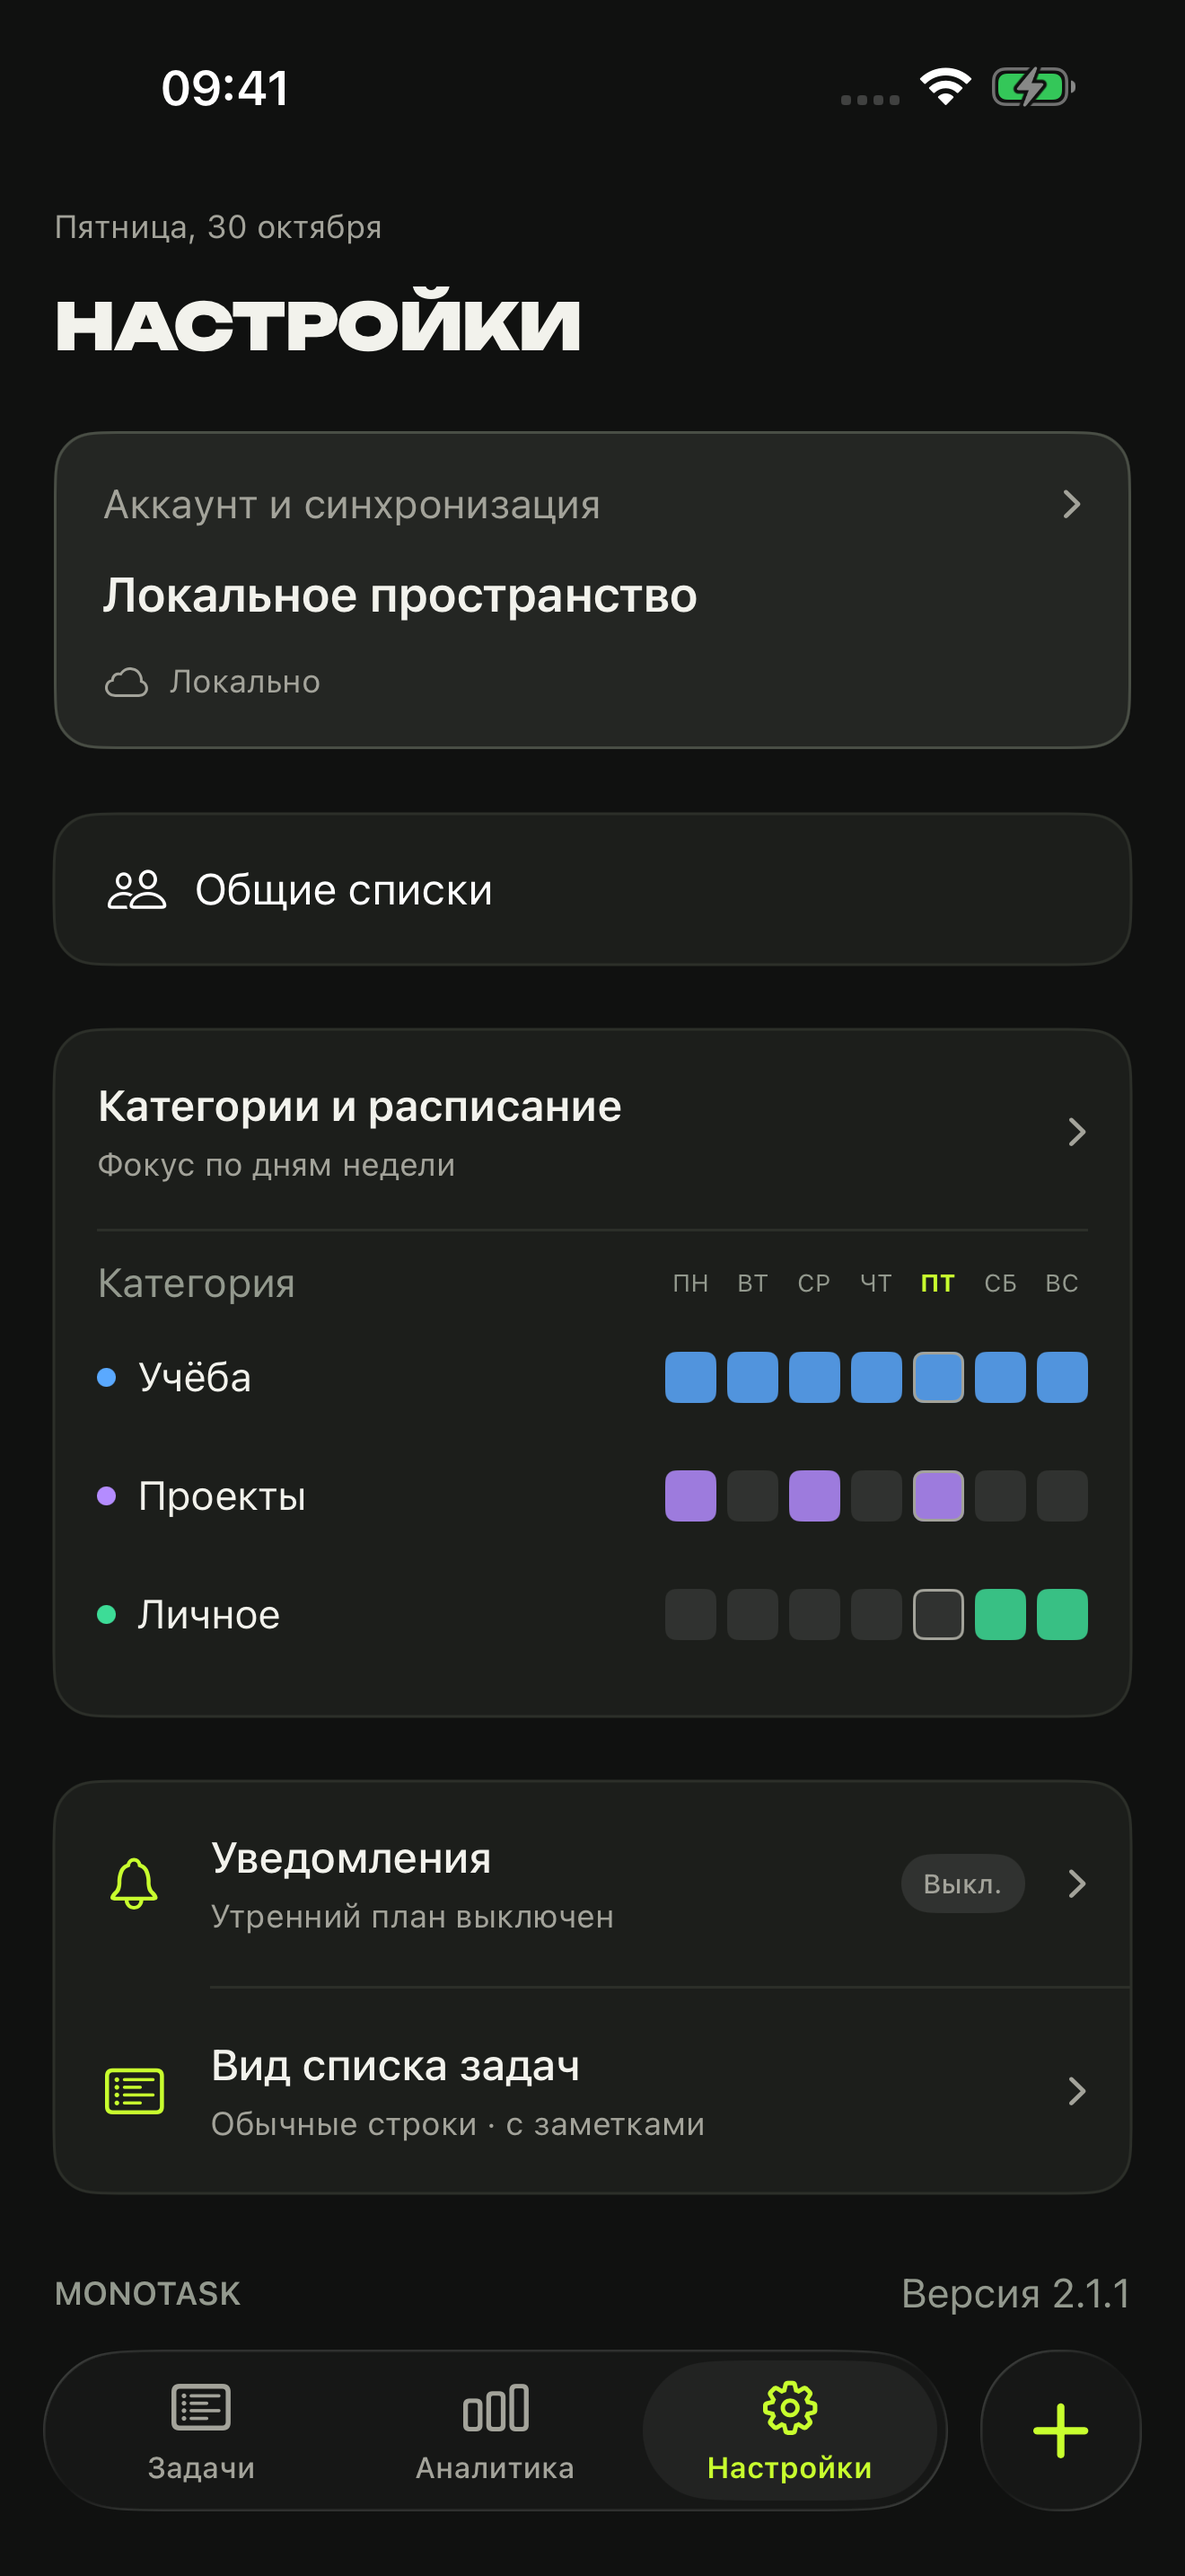
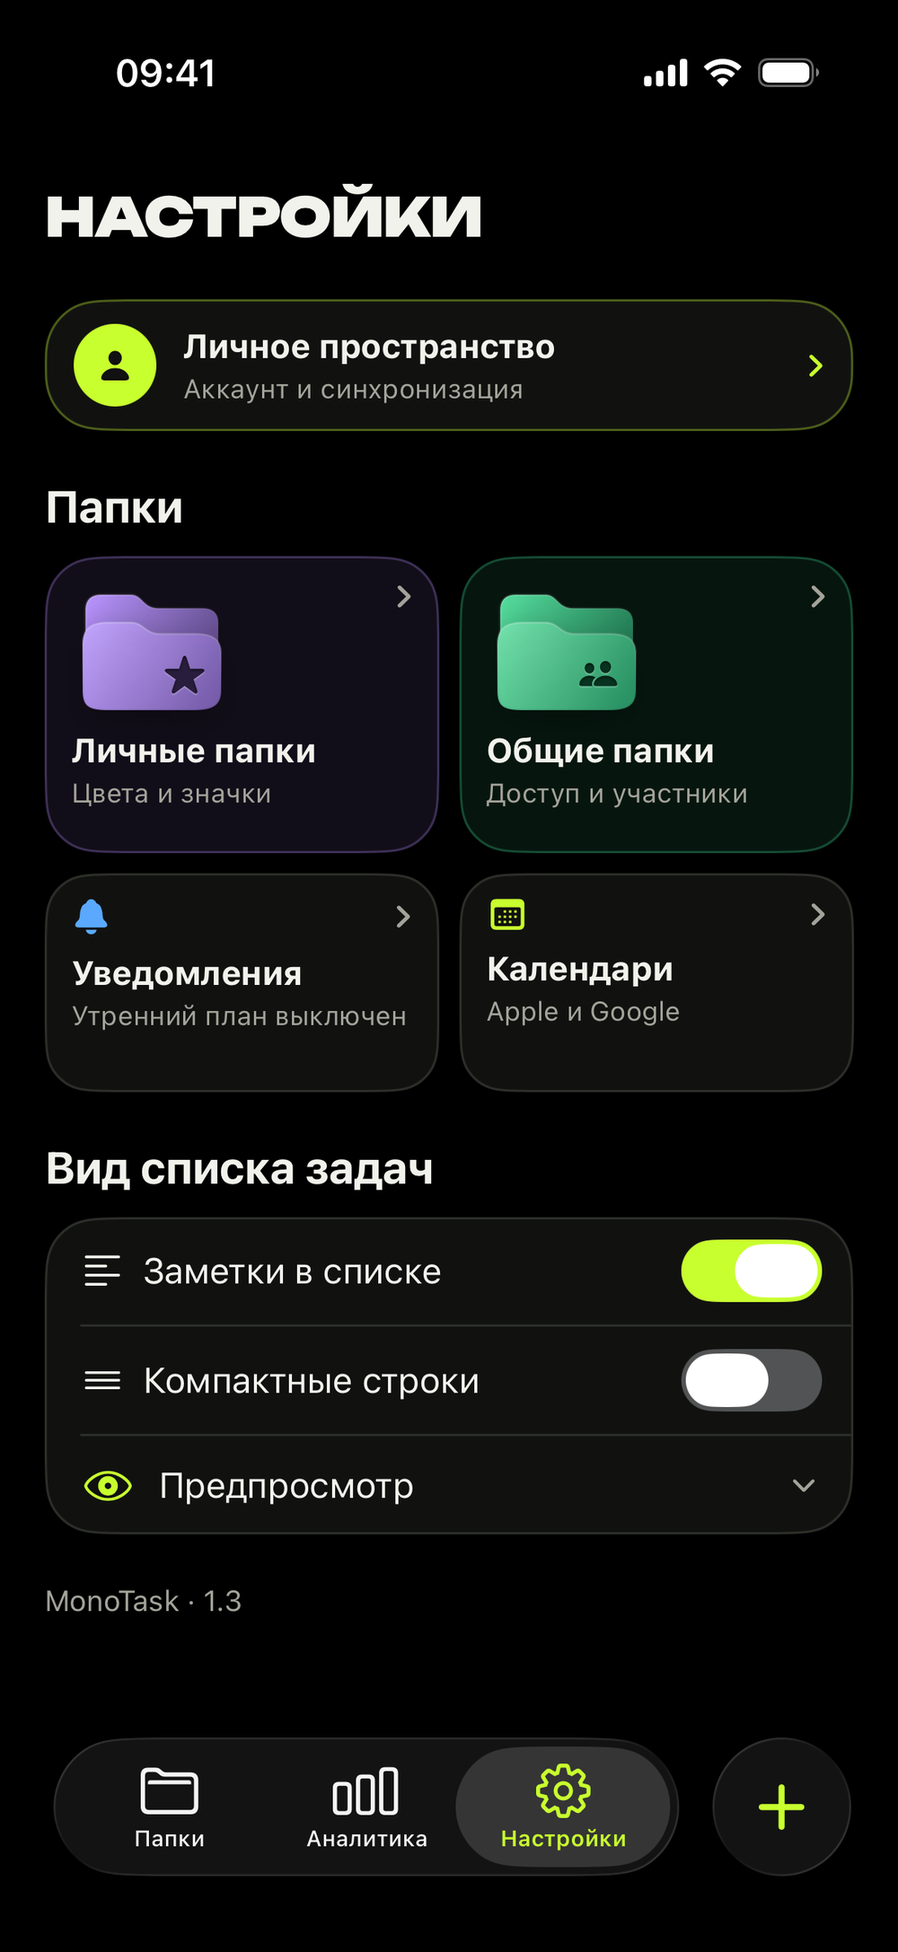
Show MonoTask Classic 1.3 on iPhone and Mac

diff --git a/README.md b/README.md
@@ -1,64 +1,59 @@
 <div align="center">
 
-<img src="MonoTask/Resources/Assets.xcassets/AppIcon.appiconset/AppIcon-1024.png" width="96" alt="Иконка MonoTask" />
+<img src="MonoTask/Resources/Assets.xcassets/AppIcon.appiconset/AppIcon-1024.png" width="96" alt="Чёрная иконка MonoTask Classic" />
 
-# MonoTask
+# MonoTask Classic
 
-### Главное — в фокусе.
-
-MonoTask Classic 1.3 для iPhone и Mac.
 Личные и общие папки, быстрый ввод задач и история выполнения.
 
-![iOS 18+](https://img.shields.io/badge/iOS-18%2B-0B0B0A?style=flat-square&labelColor=1B1B18&color=C8FF2E)
-![macOS 15+](https://img.shields.io/badge/macOS-15%2B-0B0B0A?style=flat-square&labelColor=1B1B18&color=C8FF2E)
-![Swift 6](https://img.shields.io/badge/Swift-6-0B0B0A?style=flat-square&labelColor=1B1B18&color=FF48A4)
-![SwiftUI](https://img.shields.io/badge/UI-SwiftUI-0B0B0A?style=flat-square&labelColor=1B1B18&color=B48CFF)
+[![MonoTask Classic 1.3](https://img.shields.io/badge/MonoTask_Classic-1.3-C8FF2E?style=flat-square&labelColor=1B1B18)](https://github.com/egoar777/MonoTask/tree/v1.3)
+![iOS 18+](https://img.shields.io/badge/iOS-18%2B-343432?style=flat-square&labelColor=1B1B18)
+![macOS 15+](https://img.shields.io/badge/macOS-15%2B-343432?style=flat-square&labelColor=1B1B18)
+![SwiftUI](https://img.shields.io/badge/SwiftUI-Swift_6-343432?style=flat-square&labelColor=1B1B18)
 
-[Экраны](#экраны) · [Возможности](#возможности) · [Запуск](#сборка) · [Архитектура](docs/ARCHITECTURE.md)
+[Экраны](#экраны) · [Возможности](#возможности) · [Сборка](#сборка) · [Изменения](CHANGELOG.md)
 
 </div>
 
----
-
 ## Экраны
+
+Скриншоты MonoTask Classic 1.3 с демонстрационными данными. Нажмите на изображение, чтобы открыть его в полном размере.
 
 ### iPhone
 
-<p>
-<img src="docs/screenshots/ios-today.png" width="30%" alt="Задачи MonoTask 2.1.1" />
-<img src="docs/screenshots/ios-analytics.png" width="30%" alt="Аналитика MonoTask 2.1.1" />
-<img src="docs/screenshots/ios-settings.png" width="30%" alt="Настройки MonoTask 2.1.1" />
-</p>
-
-Скриншоты версии 2.1.1 из симулятора iPhone с демонстрационными данными. Нажмите на изображение, чтобы открыть в полном размере.
+<table>
+  <tr>
+    <th>Папки</th>
+    <th>Прогресс за месяц</th>
+    <th>Настройки</th>
+  </tr>
+  <tr>
+    <td><a href="docs/screenshots/ios-today.png"><img src="docs/screenshots/ios-today.png" width="240" alt="Личные и общие папки на iPhone" /></a></td>
+    <td><a href="docs/screenshots/ios-analytics.png"><img src="docs/screenshots/ios-analytics.png" width="240" alt="Прогресс за месяц и статистика по папкам на iPhone" /></a></td>
+    <td><a href="docs/screenshots/ios-settings.png"><img src="docs/screenshots/ios-settings.png" width="240" alt="Настройки папок, календарей и вида списка на iPhone" /></a></td>
+  </tr>
+</table>
 
 ### Mac
 
-**Задачи и фокус дня, версия 2.1.1** — боковое меню, категории и быстрый ввод с клавиатуры.
+[![Папки и нижняя панель навигации на Mac](docs/screenshots/mac-today.jpg)](docs/screenshots/mac-today.jpg)
 
-[![MonoTask на Mac — задачи и фокус дня](docs/screenshots/mac-today.jpg)](docs/screenshots/mac-today.jpg)
-
-**Аналитика** — календарь активности и статистика по категориям.
-
-[![MonoTask на Mac — аналитика](docs/screenshots/mac-activity.jpg)](docs/screenshots/mac-activity.jpg)
-
-**Настройки** — аккаунт, расписание, уведомления и вид списка.
-
-[![MonoTask 2.1.1 на Mac — настройки](docs/screenshots/mac-settings.jpg)](docs/screenshots/mac-settings.jpg)
-
-Скриншоты Mac показывают предыдущий интерфейс с боковым меню и демонстрационными данными.
-
-## Совместная работа
-
-Общие списки для разных аккаунтов: приглашения по ссылке или коду, участники, ответственные, заметки, подзадачи и синхронизация с защитой от конфликтов. Личные задачи остаются приватными. [Совместная работа](docs/SHARED-LISTS.md) · [Изменения](CHANGELOG.md).
-
-<img src="docs/screenshots/ios-shared-list.png" width="320" alt="Общий список MonoTask 2.1 с ответственными и подзадачами" />
+<table>
+  <tr>
+    <th>Прогресс за месяц</th>
+    <th>Настройки</th>
+  </tr>
+  <tr>
+    <td><a href="docs/screenshots/mac-activity.jpg"><img src="docs/screenshots/mac-activity.jpg" width="360" alt="Прогресс за месяц и статистика по папкам на Mac" /></a></td>
+    <td><a href="docs/screenshots/mac-settings.jpg"><img src="docs/screenshots/mac-settings.jpg" width="360" alt="Настройки папок, календарей и вида списка на Mac" /></a></td>
+  </tr>
+</table>
 
 ## Возможности
 
 | | Что умеет MonoTask |
 | :--- | :--- |
-| **Совместная работа** | Общие списки, приглашения на 72 часа, участники и ответственные. Правки без сети сохраняются в очередь. |
+| **Совместная работа** | Общие папки, участники, ответственные и приглашения по ссылке или QR-коду. Правки без сети сохраняются в очередь. [Совместная работа](docs/SHARED-LISTS.md). |
 | **Папки** | Личные папки с цветами и значками. В папке «Все задачи» видны задачи из всех личных папок. |
 | **Задачи** | Заметки, подзадачи, три уровня приоритета и перестановка в списке. |
 | **Быстрый ввод** | На iPhone «+» раскрывает строку, нажатие на поле открывает клавиатуру. На Mac кнопку «+» дополняет `⌘N`, которое сразу переводит фокус на поле ввода. |
